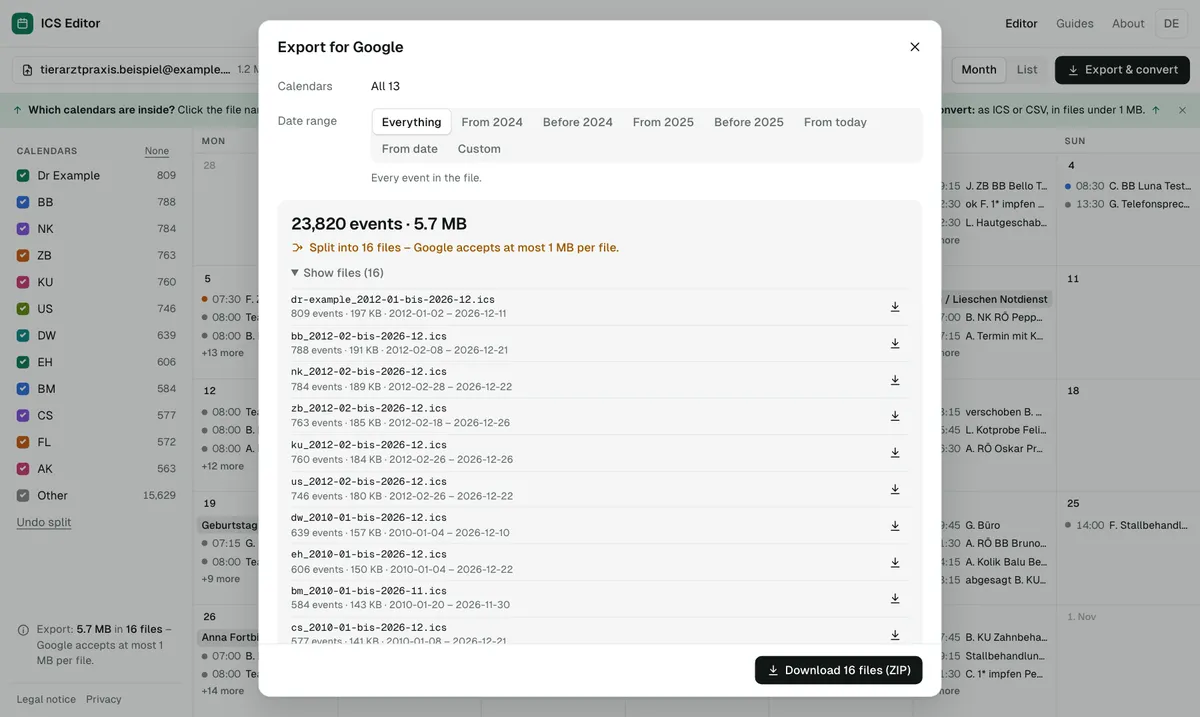
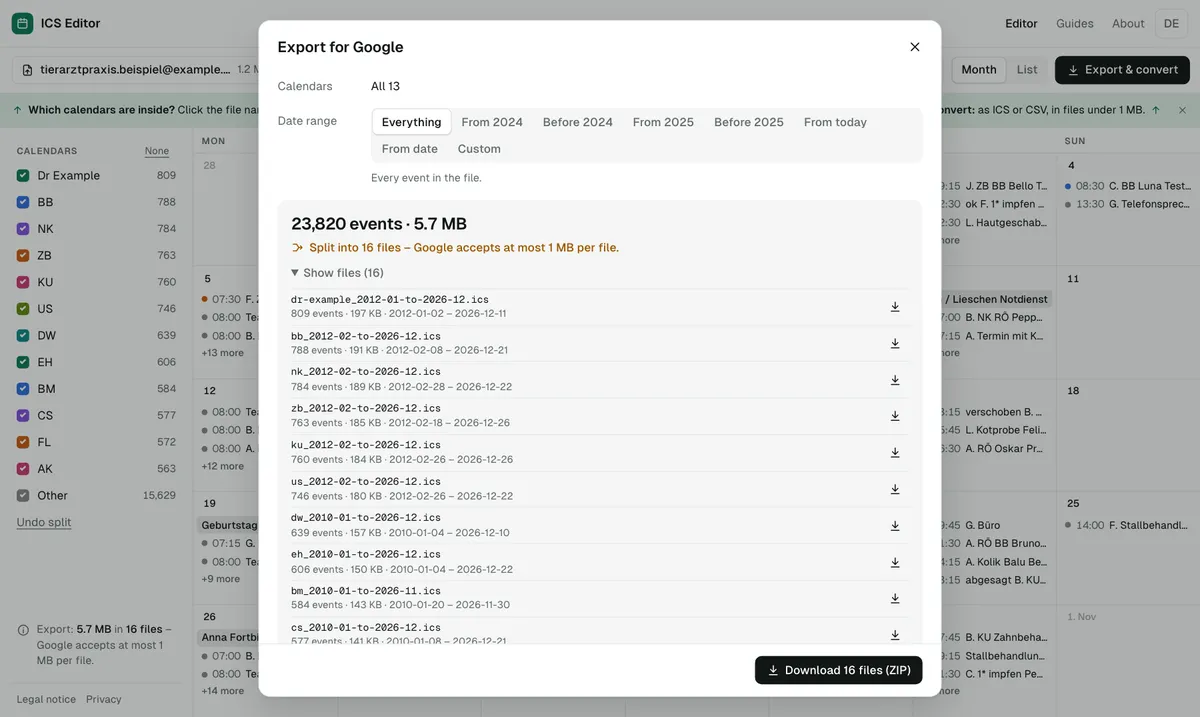
Export: Dateinamen in der Sprache der Oberfläche (part-1-of-4 … to …)
- Englische Oberfläche erzeugt englische Dateinamen statt „teil-1-von-4 … bis …“, ZIP „…_for-google.zip“
- Englischer Ratgeber „Import in parts“ und Bildschirmfotos angepasst
- Browser-Test für englische Dateinamen

diff --git a/src/lib/engine.ts b/src/lib/engine.ts
@@ -7,7 +7,7 @@ import type { IcsCalendar, IcsEvent } from './ics';
 import { decodeText, readIcsInput, readIcsInputs } from './input';
 import { calendarStats, suggest, type CalendarStats, type Suggestion } from './analyze';
 import {
-  ALL, NO_CLEAN, NO_SPLIT, PART_LIMIT, assign, buildGroups, buildPart, cleanedSizes, partFileName, planCalendars, ruleMatches, select,
+  ALL, NAME_WORDS, NO_CLEAN, NO_SPLIT, PART_LIMIT, assign, buildGroups, buildPart, cleanedSizes, partFileName, planCalendars, ruleMatches, select,
   type CleanOptions, type Group, type Selection, type SplitConfig, type OutCalendar
 } from './plan';
 import { buildCsv, csvSizes, packCsv, templateCsv, type CsvPart } from './google-csv';
@@ -23,7 +23,7 @@ import { encodeWindows1252, sampleBirthdayRows, samplePracticeCsv, sampleGoogleE
 export type Format = 'ics' | 'csv';
 
 /** hidden: Ziel-Kalender (Schlüssel), die links ausgeblendet sind – sie kommen nicht in den Export. */
-export interface PlanRequest { selection: Selection; clean: CleanOptions; split: SplitConfig; format: Format; hidden?: string[]; /** zusätzlich höchstens so viele Termine pro Datei */ maxEvents?: number }
+export interface PlanRequest { selection: Selection; clean: CleanOptions; split: SplitConfig; format: Format; hidden?: string[]; /** Sprache der Dateinamen */ lang?: 'de' | 'en'; /** zusätzlich höchstens so viele Termine pro Datei */ maxEvents?: number }
 
 export interface PartInfo { index: number; events: number; bytes: number; from: number; to: number; file: string }
 export interface CalInfo { key: string; name: string; events: number; bytes: number; rest?: boolean; parts: PartInfo[] }
@@ -249,9 +249,10 @@ function computePlan(req: PlanRequest): Planned {
 
 const ym = (w: number) => { const p = wallParts(w); return p.y + '-' + String(p.mo).padStart(2, '0'); };
 
-function csvFileName(name: string, slug: string, part: CsvPart, n: number, multi: boolean): string {
-  const base = multi || name ? slug : 'kalender';
-  return `${base}${n > 1 ? `_teil-${part.index + 1}-von-${n}` : ''}_${ym(part.from)}-bis-${ym(part.to)}.csv`;
+function csvFileName(name: string, slug: string, part: CsvPart, n: number, multi: boolean, lang: 'de' | 'en' = 'de'): string {
+  const w = NAME_WORDS[lang];
+  const base = multi || name ? slug : w.fallback;
+  return `${base}${n > 1 ? `_${w.part}-${part.index + 1}-${w.of}-${n}` : ''}_${ym(part.from)}-${w.to}-${ym(part.to)}.csv`;
 }
 
 export function plan(req: PlanRequest): PlanResult {
@@ -265,12 +266,12 @@ export function plan(req: PlanRequest): PlanResult {
   const calendars: CalInfo[] = req.format === 'ics'
     ? p.out.map((c) => ({
         key: c.key, name: c.name, events: c.events, bytes: c.bytes, rest: c.rest,
-        parts: c.parts.map((x) => ({ index: x.index, events: x.events, bytes: x.bytes, from: x.from, to: x.to, file: partFileName(c, x, multi) }))
+        parts: c.parts.map((x) => ({ index: x.index, events: x.events, bytes: x.bytes, from: x.from, to: x.to, file: partFileName(c, x, multi, 'ics', req.lang) }))
       }))
     : p.csvOut.map((c, i) => ({
         key: c.key, name: c.name, events: c.parts.reduce((a, x) => a + x.events.length, 0), bytes: c.parts.reduce((a, x) => a + x.bytes, 0),
         rest: p.out[i]?.rest,
-        parts: c.parts.map((x) => ({ index: x.index, events: x.events.length, bytes: x.bytes, from: x.from, to: x.to, file: csvFileName(c.name, p.out[i].slug, x, c.parts.length, multi) }))
+        parts: c.parts.map((x) => ({ index: x.index, events: x.events.length, bytes: x.bytes, from: x.from, to: x.to, file: csvFileName(c.name, p.out[i].slug, x, c.parts.length, multi, req.lang) }))
       }));
   return {
     format: req.format, calendars, events: p.out.reduce((a, c) => a + c.events, 0), removed: p.removed, multiMatched: p.multiMatched,
@@ -292,7 +293,7 @@ export function build(req: PlanRequest, which: { cal: string; part: number } | '
   if (req.format === 'ics') {
     for (const c of p.out) for (const part of c.parts) {
       if (!want(c.key, part.index)) continue;
-      const name = partFileName(c, part, multi);
+      const name = partFileName(c, part, multi, 'ics', req.lang);
       const data = enc.encode(buildPart(part, c, req.clean, uidSalt));
       if (which !== 'zip') return { name, data, type: 'text/calendar;charset=utf-8' };
       files[(multi ? c.slug + '/' : '') + name] = data;
@@ -301,7 +302,7 @@ export function build(req: PlanRequest, which: { cal: string; part: number } | '
     p.csvOut.forEach((c, i) => {
       for (const part of c.parts) {
         if (!want(c.key, part.index)) continue;
-        const name = csvFileName(c.name, p.out[i].slug, part, c.parts.length, multi);
+        const name = csvFileName(c.name, p.out[i].slug, part, c.parts.length, multi, req.lang);
         files[(multi ? p.out[i].slug + '/' : '') + name] = enc.encode(buildCsv(part.events, req.clean));
       }
     });
@@ -312,7 +313,7 @@ export function build(req: PlanRequest, which: { cal: string; part: number } | '
   }
   const zip = zipSync(files, { level: 6 });
   const base = S.fileName.replace(/\.[^.]+$/, '').replace(/[^\w.-]+/g, '-').slice(0, 40) || 'kalender';
-  return { name: `${base}_fuer-google.zip`, data: zip, type: 'application/zip' };
+  return { name: `${base}_${NAME_WORDS[req.lang ?? 'de'].zip}.zip`, data: zip, type: 'application/zip' };
 }
 
 /** Ziel-Kalender je Termingruppe für die Ansicht (ohne Ausgabefilter). Zwischengespeichert, bis sich Termine oder Aufteilung ändern. */

diff --git a/src/content/guides.ts b/src/content/guides.ts
@@ -515,13 +515,13 @@ export const GUIDES: Record<string, GuideDef> = {
         { name: 'Choose the calendars', text: 'On the left, tick only the calendars you want to import – for example one person’s calendar. Hidden calendars are not exported.' },
         { name: 'Split and download', text: 'Click “Export & convert”, choose the date range and, if you like, tick “At most 999 events per file” under “More options”. Then download the ZIP file and unzip it.' },
         { name: 'Create the destination calendar', text: 'In Google Calendar on a computer, create a new, empty calendar. If something goes wrong, you only delete that calendar.' },
-        { name: 'Import the first part', text: 'Gear icon → Settings → Import & export. Under “Import”, select the file “…_teil-1-von-…” (part 1), choose the new calendar as the destination and click “Import” once.' },
+        { name: 'Import the first part', text: 'Gear icon → Settings → Import & export. Under “Import”, select the file “…_part-1-of-…”, choose the new calendar as the destination and click “Import” once.' },
         { name: 'Check the message', text: 'Google reports how many events were imported, for example 999 of 999. If both numbers match, the part is complete.' },
         { name: 'Import the remaining parts', text: 'Import the other files the same way, one after the other, into the same calendar – and check the message each time.' }
       ],
       sections: [
         { h2: 'Field test: 999 of 999 events', html: '<p>We tested the process in October 2026 with a real Google Calendar export from a practice (analysed in the browser only, without names). For one person’s calendar we chose the date range “From 2025” in the ICS Editor and ticked “At most 999 events per file”. That produced three files, the first with events from January to October 2025.</p><p>We imported this first file into that person’s calendar in Google Calendar on a computer. Google (German interface) reported: <strong>“999 von 999 Terminen importiert”</strong> – 999 of 999 events imported. The number matched exactly what the ICS Editor had shown before the download, so every part can be checked at once.</p>' },
-        { h2: 'Reading the file names', html: '<p>The ICS Editor names each file after the calendar, the part and the date range, for example <code>anna-a_teil-1-von-4_2014-01-bis-2017-07.ics</code>: calendar “Anna (A)”, part 1 of 4 (“teil-1-von-4”), events from January 2014 to July 2017. Recurring events always sit complete in one file, so no repetition is lost.</p>' },
+        { h2: 'Reading the file names', html: '<p>The ICS Editor names each file after the calendar, the part and the date range, for example <code>anna-a_part-1-of-4_2014-01-to-2017-07.ics</code>: calendar “Anna (A)”, part 1 of 4, events from January 2014 to July 2017. Recurring events always sit complete in one file, so no repetition is lost.</p>' },
         { h2: 'If the numbers don’t match', html: '<div class="table-wrap"><table><thead><tr><th>Message</th><th>Meaning</th><th>What helps</th></tr></thead><tbody><tr><td>Fewer imported than in the file</td><td>Google couldn’t read some events.</td><td>Open the file in the {tool|ICS Editor}, check it and export again.</td></tr><tr><td>“Processed zero events”</td><td>According to Google often a second click on “Import” – the first one worked.</td><td>Check the calendar, don’t import again.</td></tr><tr><td>“Google Calendar is temporarily unavailable”</td><td>Usually the file is larger than 1 MB.</td><td>{tooLarge|Shrink or split the file further}.</td></tr></tbody></table></div><p>If an import went wrong, see {undo|undo a Google Calendar import}.</p>' }
       ],
       faq: [

diff --git a/src/lib/plan.ts b/src/lib/plan.ts
@@ -465,9 +465,13 @@ export function buildPart(part: OutPart, cal: OutCalendar, clean: CleanOptions, 
   return writeIcs(cal.head, cal.tz, evLines);
 }
 
-export function partFileName(cal: OutCalendar, part: OutPart, multiCal: boolean, ext = 'ics'): string {
+/** Wörter in Dateinamen je Sprache: …_teil-1-von-4_2024-01-bis-2024-07 bzw. …_part-1-of-4_2024-01-to-2024-07 */
+export const NAME_WORDS = { de: { part: 'teil', of: 'von', to: 'bis', fallback: 'kalender', zip: 'fuer-google' }, en: { part: 'part', of: 'of', to: 'to', fallback: 'calendar', zip: 'for-google' } };
+
+export function partFileName(cal: OutCalendar, part: OutPart, multiCal: boolean, ext = 'ics', lang: 'de' | 'en' = 'de'): string {
+  const w = NAME_WORDS[lang];
   const y = (w: number) => { const p = wallParts(w); return p.y + '-' + String(p.mo).padStart(2, '0'); };
-  const base = multiCal || cal.name ? cal.slug : 'kalender';
+  const base = multiCal || cal.name ? cal.slug : w.fallback;
   const n = cal.parts.length;
-  return `${base}${n > 1 ? `_teil-${part.index + 1}-von-${n}` : ''}_${y(part.from)}-bis-${y(part.to)}.${ext}`;
+  return `${base}${n > 1 ? `_${w.part}-${part.index + 1}-${w.of}-${n}` : ''}_${y(part.from)}-${w.to}-${y(part.to)}.${ext}`;
 }

diff --git a/src/components/tool/Export.tsx b/src/components/tool/Export.tsx
@@ -44,7 +44,7 @@ export const DEFAULT_EXPORT: ExportOpts = { range: 'all', fromDate: '', from: ''
 const statusWords = (loaded: Loaded) => (loaded.suggestions.find((s) => s.kind === 'status')?.values ?? []).filter((v) => v.value !== 'STATUS:CANCELLED');
 
 /** Baut aus den Export-Optionen die Anfrage an den Rechenkern. */
-export function exportRequest(o: ExportOpts, sel: Selection, split: SplitConfig, loaded: Loaded, hidden: string[]): PlanRequest {
+export function exportRequest(o: ExportOpts, sel: Selection, split: SplitConfig, loaded: Loaded, hidden: string[], lang: 'de' | 'en' = 'de'): PlanRequest {
   const y = new Date().getFullYear();
   return {
     selection: {
@@ -55,7 +55,7 @@ export function exportRequest(o: ExportOpts, sel: Selection, split: SplitConfig,
       dropCancelled: o.cancelled, dropWords: o.cancelled ? statusWords(loaded).map((v) => v.value) : [], dedupe: o.dupes
     },
     clean: { ...NO_CLEAN, dropAdmin: o.admin, maskPhones: o.phones, maskEmails: o.phones, dropDescription: o.desc, newUids: o.uids },
-    split, format: o.format, hidden, maxEvents: o.max999 ? 999 : undefined
+    split, format: o.format, hidden, maxEvents: o.max999 ? 999 : undefined, lang
   };
 }
 

diff --git a/tests/e2e/tool.spec.ts b/tests/e2e/tool.spec.ts
@@ -388,3 +388,16 @@ test('Englische Startseite und Sprachwechsel', async ({ page }) => {
   await page.getByRole('link', { name: /Deutsch/ }).click();
   await expect(page).toHaveURL(/\/ics-editor\/$/);
 });
+
+test('Englische Oberfläche: Dateinamen auf Englisch', async ({ page }) => {
+  await page.goto('en/');
+  await ready(page);
+  await page.getByRole('button', { name: /Practice calendar/ }).click();
+  await loaded(page);
+  await page.getByRole('button', { name: 'Export & convert', exact: true }).click();
+  const ex = page.getByRole('dialog', { name: 'Export for Google' });
+  await ex.getByText(/Show files/).click();
+  await expect(ex.locator('.f-name').first()).toContainText(/_\d{4}-\d{2}-to-\d{4}-\d{2}\.ics/);
+  await expect(ex.locator('.files')).toContainText('part-1-of-');
+  await expect(ex.locator('.files')).not.toContainText('teil-');
+});

diff --git a/src/components/tool/Tool.tsx b/src/components/tool/Tool.tsx
@@ -122,7 +122,7 @@ function App({ h1, lead, links }: { h1: string; lead: string; links: Links }) {
   }, [studio]);
 
   const viewReq = useMemo<PlanRequest>(() => ({ selection: { ...ALL, today, deleted: sel.deleted }, clean: NO_CLEAN, split, format: 'ics' }), [sel.deleted, split, today]);
-  const exportReq = useMemo<PlanRequest | null>(() => (loaded ? exportRequest(opts, sel, split, loaded, hidden) : null), [opts, sel, split, loaded, hidden]);
+  const exportReq = useMemo<PlanRequest | null>(() => (loaded ? exportRequest(opts, sel, split, loaded, hidden, lang) : null), [opts, sel, split, loaded, hidden, lang]);
 
   useEffect(() => {
     if (!loaded || !exportReq) return;
